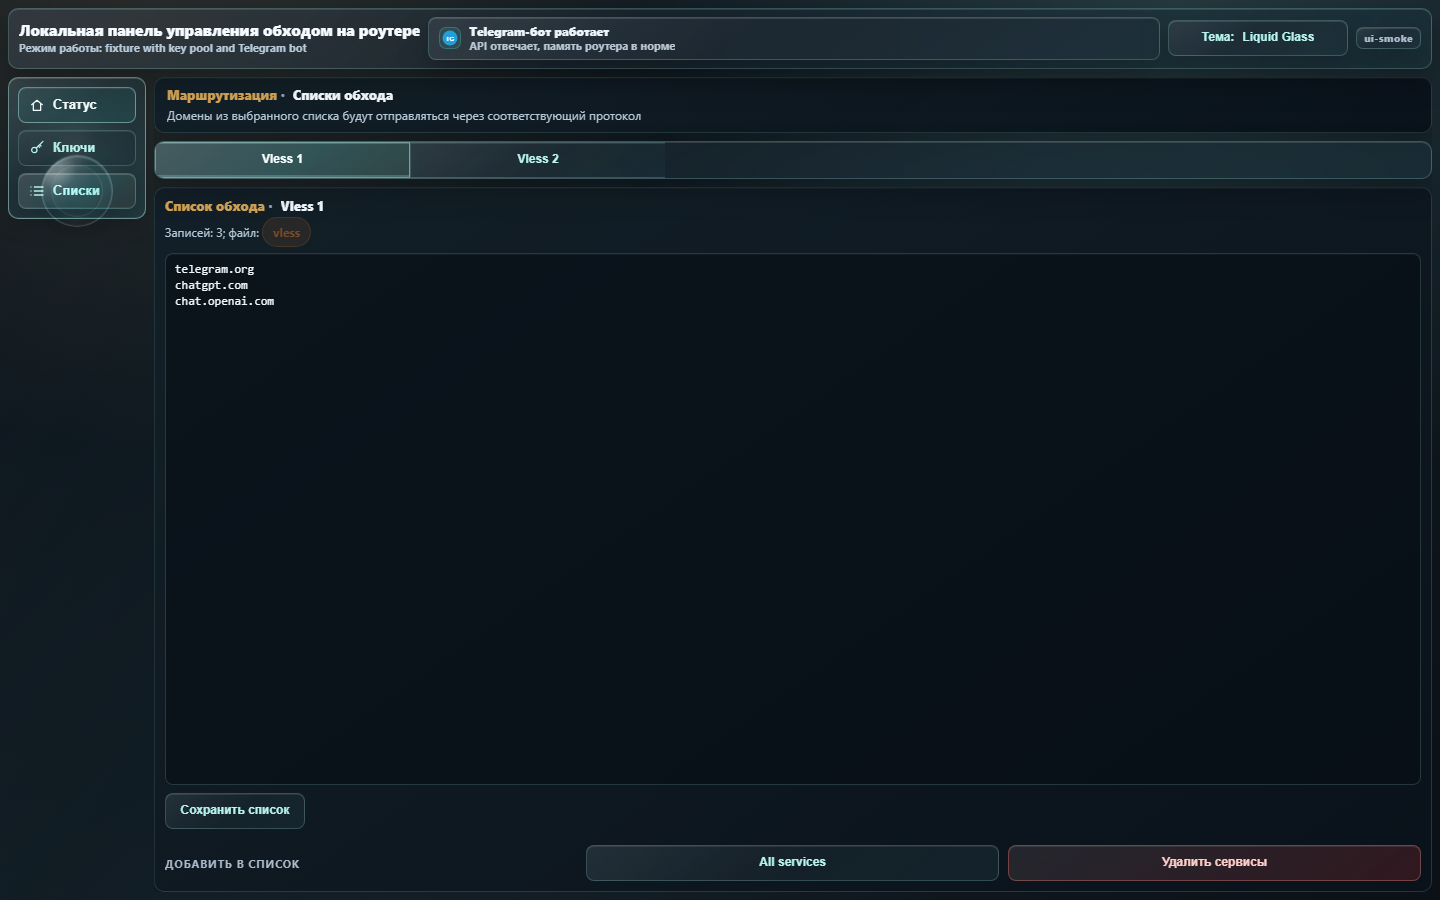
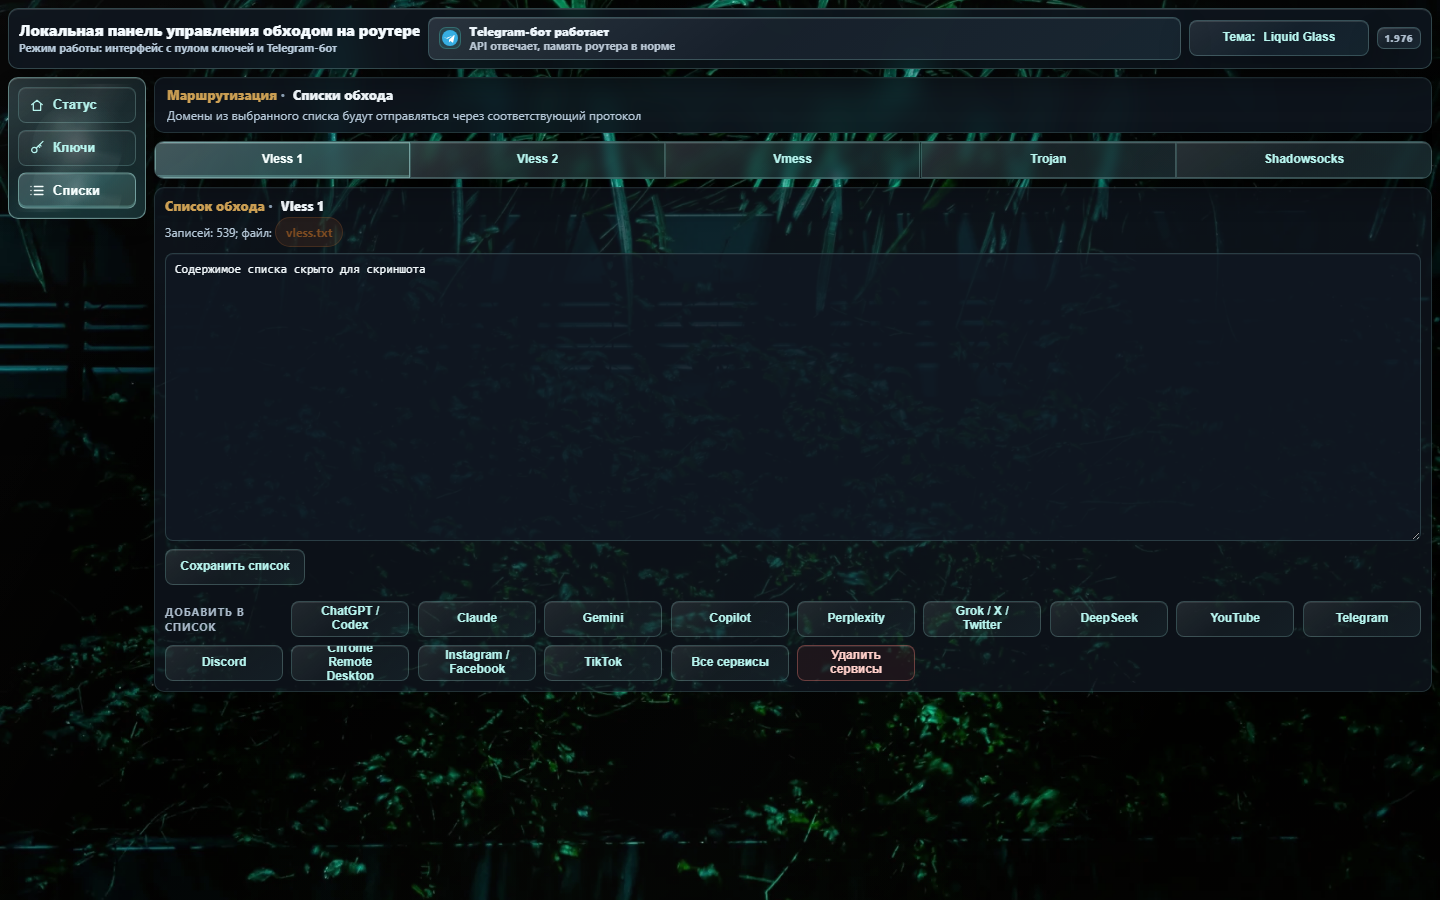
Release 1.977: unify background transparency and refresh README

diff --git a/tests/ui_smoke.js b/tests/ui_smoke.js
@@ -738,6 +738,9 @@ async function runViewport(browser, modeConfig, viewportName, viewport, isMobile
     if (await page.locator('html').evaluate((node) => node.style.getPropertyValue('--user-background-panel-alpha')) !== '0.576') {
       throw new Error(`${name}: background panel transparency preview was not applied`);
     }
+    if (await page.locator('html').evaluate((node) => node.style.getPropertyValue('--user-background-content-alpha')) !== '0.397') {
+      throw new Error(`${name}: background content transparency preview was not applied`);
+    }
     if (await page.locator('html[data-user-background="enabled"]').count() !== 1) {
       throw new Error(`${name}: pending background preview was removed by shade adjustment`);
     }
@@ -745,6 +748,72 @@ async function runViewport(browser, modeConfig, viewportName, viewport, isMobile
       node.value = '100';
       node.dispatchEvent(new Event('input', { bubbles: true }));
     });
+    await page.waitForTimeout(500);
+    if (await page.locator('html').evaluate((node) => node.style.getPropertyValue('--user-background-content-alpha')) !== '0.080') {
+      throw new Error(`${name}: content surfaces must become fully translucent at 100%`);
+    }
+    const contentTransparency = await page.evaluate(() => {
+      const surfaceSelectors = [
+        '.protocol-workspace.active',
+        '.list-workspace.active',
+        '[data-view="status"] .status-card',
+      ];
+      const buttonSelectors = [
+        '.protocol-tabs .seg-tab:not(.active)',
+        '.protocol-workspace.active .subtab:not(.active)',
+        '.protocol-workspace.active .secondary-button',
+        '[data-view="status"] .service-panel button',
+        '.list-workspace.active button',
+      ];
+      const backdrop = (node) => {
+        const style = getComputedStyle(node);
+        return style.backdropFilter || style.webkitBackdropFilter || 'none';
+      };
+      return {
+        surfaceBackdrops: surfaceSelectors.map((selector) => {
+          const node = document.querySelector(selector);
+          return node ? backdrop(node) : 'missing';
+        }),
+        buttonBackgrounds: buttonSelectors.map((selector) => {
+          const node = document.querySelector(selector);
+          const style = node ? getComputedStyle(node) : null;
+          return node ? {
+            selector,
+            color: style.backgroundColor,
+            hovered: node.matches(':hover'),
+            liquidActive: node.classList.contains('liquid-active'),
+          } : null;
+        }),
+      };
+    });
+    if (contentTransparency.surfaceBackdrops.some((value) => value !== 'none')) {
+      throw new Error(`${name}: content surfaces must not blur the background behind buttons`);
+    }
+    const regularButtonBackgrounds = contentTransparency.buttonBackgrounds
+      .filter((value) => value && !value.hovered && !value.liquidActive && !value.selector.includes('.service-panel'))
+      .map((value) => value.color);
+    const regularButtonAlphas = regularButtonBackgrounds.map((color) => {
+      const match = color.match(/rgba\([^)]*,\s*(0?\.\d+)\s*\)$/);
+      return match ? Number(match[1]) : 1;
+    });
+    const statusButton = contentTransparency.buttonBackgrounds.find(
+      (value) => value && value.selector.includes('.service-panel'),
+    );
+    const statusButtonAlphaMatch = statusButton
+      ? statusButton.color.match(/rgba\([^)]*,\s*(0?\.\d+)\s*\)$/)
+      : null;
+    const statusButtonAlpha = statusButtonAlphaMatch ? Number(statusButtonAlphaMatch[1]) : 1;
+    if (
+      contentTransparency.buttonBackgrounds.includes(null) ||
+      !regularButtonBackgrounds.length ||
+      Math.max(...regularButtonAlphas) - Math.min(...regularButtonAlphas) > 0.02 ||
+      statusButtonAlpha > 0.35
+    ) {
+      throw new Error(
+        `${name}: buttons on status, keys, and lists must use one translucent background `
+        + JSON.stringify(contentTransparency.buttonBackgrounds),
+      );
+    }
     const pickerSurface = await page.locator('#theme-picker:not(.hidden)').evaluate((node) => {
       const style = getComputedStyle(node);
       const alphaValues = Array.from(style.backgroundImage.matchAll(/rgba?\([^)]*[,/]\s*(0?\.\d+)\s*\)/g))

diff --git a/app/static/app.css b/app/static/app.css
@@ -1728,7 +1728,24 @@
         html[data-user-background="enabled"] .event-history-drawer,
         html[data-user-background="enabled"] .mobile-nav{
             background:rgba(17,25,35,var(--user-background-panel-alpha,.96));
+        }
+        html[data-user-background="enabled"] .topbar,
+        html[data-user-background="enabled"] .side-nav,
+        html[data-user-background="enabled"] .view-head,
+        html[data-user-background="enabled"] .confirm-card,
+        html[data-user-background="enabled"] .event-history-drawer,
+        html[data-user-background="enabled"] .mobile-nav{
             backdrop-filter:blur(14px) saturate(118%);
+        }
+        html[data-user-background="enabled"] .panel,
+        html[data-user-background="enabled"] .protocol-workspace,
+        html[data-user-background="enabled"] .list-workspace,
+        html[data-user-background="enabled"] .service-panel,
+        html[data-user-background="enabled"] .overview-key-panel,
+        html[data-user-background="enabled"] .status-card{
+            background:rgba(17,25,35,var(--user-background-content-alpha,.96));
+            backdrop-filter:none;
+            -webkit-backdrop-filter:none;
         }
         html[data-user-background="enabled"] button,
         html[data-user-background="enabled"] .mode-choice,
@@ -1736,6 +1753,11 @@
         html[data-user-background="enabled"] .mode-toggle,
         html[data-user-background="enabled"] .nav-item{
             background:rgba(34,67,73,var(--user-background-button-alpha,.28));
+        }
+        html[data-user-background="enabled"][data-theme="glass"] button{
+            background:
+                linear-gradient(145deg,rgba(255,255,255,.085),rgba(255,255,255,.024) 52%,rgba(156,238,231,.045)),
+                rgba(17,35,43,var(--user-background-button-alpha,.28));
         }
         html[data-user-background="enabled"] button.danger{background:rgba(94,36,42,var(--user-background-button-alpha,.34));}
         html[data-user-background="enabled"] input:not([type="range"]),
@@ -1753,6 +1775,12 @@
         html[data-user-background="enabled"][data-theme="light"] .confirm-card,
         html[data-user-background="enabled"][data-theme="light"] .event-history-drawer,
         html[data-user-background="enabled"][data-theme="light"] .mobile-nav{background:rgba(231,235,240,var(--user-background-panel-alpha,.94));}
+        html[data-user-background="enabled"][data-theme="light"] .panel,
+        html[data-user-background="enabled"][data-theme="light"] .protocol-workspace,
+        html[data-user-background="enabled"][data-theme="light"] .list-workspace,
+        html[data-user-background="enabled"][data-theme="light"] .service-panel,
+        html[data-user-background="enabled"][data-theme="light"] .overview-key-panel,
+        html[data-user-background="enabled"][data-theme="light"] .status-card{background:rgba(231,235,240,var(--user-background-content-alpha,.94));}
         html[data-user-background="enabled"] .topbar .hero-popover{
             background-color:#111923;
             background-image:linear-gradient(180deg,rgba(23,30,40,.98),rgba(20,31,43,.97));

diff --git a/app/static/app.js b/app/static/app.js
@@ -191,6 +191,7 @@
             const root = document.documentElement;
             root.style.setProperty('--user-background-shade', String(shade / 100));
             root.style.setProperty('--user-background-panel-alpha', (0.96 - panelTransparency * 0.006).toFixed(3));
+            root.style.setProperty('--user-background-content-alpha', (0.96 - panelTransparency * 0.0088).toFixed(3));
             root.style.setProperty('--user-background-button-alpha', (0.28 - panelTransparency * 0.002).toFixed(3));
             if (enabled) {
                 root.style.setProperty('--user-background-image', cssBackgroundUrl(activeUrl));

diff --git a/tests/smoke_modules.py b/tests/smoke_modules.py
@@ -4274,7 +4274,10 @@ def test_runtime_startup_limits_router_flash_and_overhead():
     assert 'https://raw.githubusercontent.com/andruwko73/bypass_keenetic/main/bootstrap/install.sh' in readme_source
     assert 'https://codeload.github.com/andruwko73/bypass_keenetic/tar.gz/refs/heads/main' in readme_source
     assert 'tmp/bypass-bootstrap-install' in readme_source
-    assert 'Прогрев YouTube выполняется отдельным коротким процессом для ускорения загрузки видео' in readme_source
+    assert '## Структура репозитория' not in readme_source
+    assert 'Прогрев YouTube выполняется отдельным коротким процессом для ускорения загрузки видео' not in readme_source
+    assert 'Тёмная и светлая темы' in readme_source
+    assert 'Собственный фон веб-интерфейса' in readme_source
     assert 'не увеличивает постоянный RSS Telegram-бота' not in readme_source
     bootstrap_source = (ROOT / 'bootstrap' / 'install.sh').read_text(encoding='utf-8')
     assert 'prepare_repo_archive()' in bootstrap_source

diff --git a/app/bot_config.example.py b/app/bot_config.example.py
@@ -1,4 +1,4 @@
-# ВЕРСИЯ СКРИПТА v1.976
+# ВЕРСИЯ СКРИПТА v1.977
 
 token = 'MyBotFatherToken'  # ключ api бота
 usernames = ['MyTelegramLogin']  # Ваш логин в телеграмме без @, не бота.

diff --git a/app/app_version.py b/app/app_version.py
@@ -1,3 +1,3 @@
-APP_VERSION_COUNTER = '1.976'
+APP_VERSION_COUNTER = '1.977'
 APP_VERSION_LABEL = APP_VERSION_COUNTER
 APP_VERSION_DISPLAY = f'v{APP_VERSION_COUNTER}'

diff --git a/README.md b/README.md
@@ -10,6 +10,8 @@
 
 - Веб-интерфейс на `http://192.168.1.1:8080/` для ПК и телефона.
 - Разделы **Статус**, **Ключи**, **Списки**.
+- Тёмная и светлая темы, а также оформление **Liquid Glass**.
+- Собственный фон веб-интерфейса: можно выбрать JPEG, PNG или WebP до 20 МБ с ПК, Android или iPhone. Браузер сжимает изображение до WebP размером не более 1 МБ, фон хранится локально на роутере; отдельно настраиваются затемнение фона и прозрачность блоков и кнопок.
 - Telegram-бот для режимов **Простой** и **Сложный**.
 - Поддержка двух протоколов `Vless`, протоколов `Vmess`, `Trojan`, `Shadowsocks`.
 - Пул ключей для каждого протокола: ручное добавление, удаление, применение, импорт подписки.
@@ -36,12 +38,6 @@ sh -c 'set -eu; export PATH=/opt/bin:/opt/sbin:$PATH; OPKG="$(command -v opkg ||
 Команда выше является актуальной командой чистой установки из GitHub `main`. Она ставит минимальный `curl`, скачивает `bootstrap/install.sh`, затем bootstrap скачивает основной `script.sh`, веб-установщик, Telegram-бота и все runtime-модули.
 
 Команда сначала пробует `raw.githubusercontent.com`, затем GitHub archive через `codeload.github.com`. Это важно для чистой установки: fallback не требует уже установленного ключа или локального SOCKS. Если с чистого роутера недоступны и raw, и codeload, нужен временный прямой доступ к GitHub или ручная загрузка `bootstrap/install.sh`.
-
-## Структура репозитория
-
-В корне оставлены только файлы, которые нужны пользователю и совместимости установки: `README.md`, `CHANGELOG.md`, `LICENSE`, `version.md`, `script.sh` и `bootstrap/install.sh`. Основные файлы программы, роутерные скрипты, конфиги и статические ассеты лежат в папке `app/`. Установщик и обновлятор сами используют этот путь, поэтому команда чистой установки остаётся прежней.
-
-Прогрев YouTube выполняется отдельным коротким процессом для ускорения загрузки видео.
 
 При первой чистой установке откроется первичная настройка на `http://192.168.1.1:8080/`.
 
@@ -140,7 +136,7 @@ Telegram-бот использует нижнюю клавиатуру и раб
 
 ## Скриншоты
 
-Скриншоты веб-интерфейса сняты в режиме **Сложный**. Поля и строки с ключами замаскированы.
+Скриншоты установленного веб-интерфейса сняты с текущего роутера в режиме **Сложный** и с пользовательским фоном. Ключи, имена и хэши пула, а также содержимое списков замаскированы.
 
 Страница первичной настройки:
 
@@ -152,6 +148,12 @@ Telegram-бот использует нижнюю клавиатуру и раб
 
 <a href="docs/screenshots/web-ui-status.png">
   <img src="docs/screenshots/web-ui-status.png" alt="Статус и сервис для ПК" width="720">
+</a>
+
+Темы и пользовательский фон:
+
+<a href="docs/screenshots/web-ui-background.png">
+  <img src="docs/screenshots/web-ui-background.png" alt="Темы и пользовательский фон" width="720">
 </a>
 
 Статус и сервис, версия для телефона:

diff --git a/CHANGELOG.md b/CHANGELOG.md
@@ -1,3 +1,12 @@
+<a name="1.977"></a>
+# [1.977] - 25 Jul 2026
+
+### Изменено
+
+- Прозрачность основных блоков и кнопок при пользовательском фоне применяется единообразно на вкладках **Статус**, **Ключи** и **Списки**; фон остаётся виден без лишнего размытия содержимого.
+- Меню выбора темы и настройки фона сохраняет плотный читаемый фон независимо от выбранной прозрачности остальных блоков.
+- README дополнен описанием тем и собственного фона, а скриншоты веб-интерфейса обновлены по текущему роутеру с маскированием приватных данных.
+
 <a name="1.976"></a>
 # [1.976] - 23 Jul 2026
 

diff --git a/version.md b/version.md
@@ -1,4 +1,8 @@
-*v1.976 (23 Jul 2026) -* main
+*v1.977 (25 Jul 2026) -* main
+
+*Делает прозрачность блоков и кнопок одинаковой на всех вкладках при использовании пользовательского фона и сохраняет читаемость меню оформления.*
+
+*Документирует темы и пользовательский фон, добавляет актуальные обезличенные скриншоты веб-интерфейса с текущего роутера.*
 
 *В карточке обновления время «В среднем» теперь отображается отдельной строкой под «Прошло».*
 
